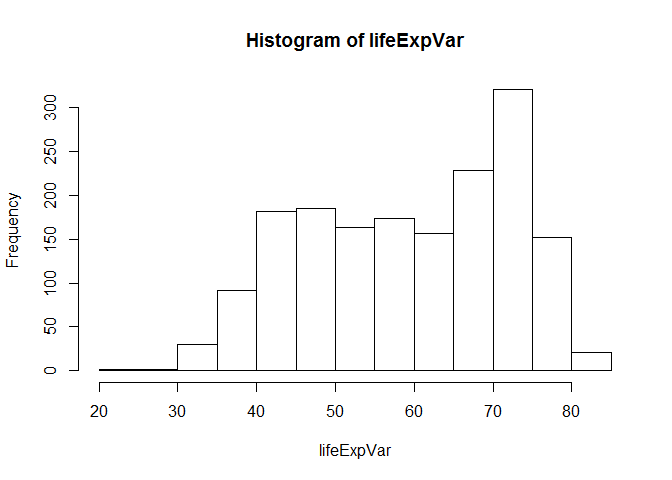
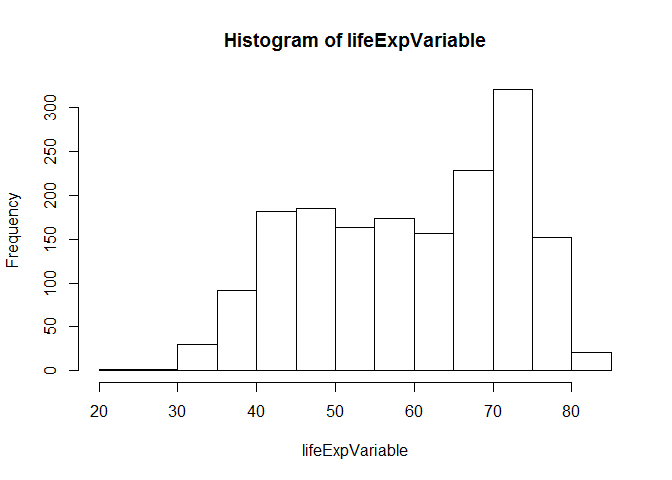
Third Attempt on Homework2

Changed region(s): [[0.3125, 0.0625, 0.7188, 0.125], [0.4375, 0.9062, 0.625, 0.9688]]

diff --git a/hw02/hw02_gapminder.md b/hw02/hw02_gapminder.md
@@ -43,6 +43,12 @@ is.list(gapminder)
 
     ## [1] TRUE
 
+``` r
+typeof(gapminder)
+```
+
+    ## [1] "list"
+
 2)What's its class?
 
 Answer : Class is dataframe and also a tibble.
@@ -74,7 +80,7 @@ gapminder
 
 OR
 
-An alternative way is to find the number of rows and columns is mentioned below :
+An alternative way is to find the number of rows and columns as mentioned below :
 
 ``` r
 str(gapminder)
@@ -138,7 +144,7 @@ ncol(gapminder)
     ## [1] 6
 
 ``` r
-head(gapminder) #gives the number of columns and data tyoes for each column
+head(gapminder) #gives the number of columns and data types for each column
 ```
 
     ## # A tibble: 6 x 6
@@ -240,18 +246,18 @@ Answer : Categorical variable : continent
 Quantitative variable : life expectancy(lifeExp)
 
 ``` r
-ContinentVar <- gapminder$continent
-lifeExpVar <- gapminder$lifeExp
+ContinentVariable <- gapminder$continent
+lifeExpVariable <- gapminder$lifeExp
 ```
 
 2)What are possible values (or range, whichever is appropriate) of each variable? What values are typical? What’s the spread? What’s the distribution? Etc., tailored to the variable at hand. Feel free to use summary stats, tables, figures. We’re NOT expecting high production value (yet).
 
 ``` r
-continentTable <- table(ContinentVar)
+continentTable <- table(ContinentVariable)
 continentTable
 ```
 
-    ## ContinentVar
+    ## ContinentVariable
     ##   Africa Americas     Asia   Europe  Oceania 
     ##      624      300      396      360       24
 
@@ -262,75 +268,253 @@ hist(continentTable) #Distribution of Continent (Similar to frequency distributi
 ![](hw02_gapminder_files/figure-markdown_github-ascii_identifiers/unnamed-chunk-11-1.png)
 
 ``` r
-range(lifeExpVar)
+range(lifeExpVariable) # Range of Life Expectancy
 ```
 
     ## [1] 23.599 82.603
 
 ``` r
-hist(lifeExpVar) #Distribution of ife Expectency
+hist(lifeExpVariable) #Distribution of ife Expectency
 ```
 
 ![](hw02_gapminder_files/figure-markdown_github-ascii_identifiers/unnamed-chunk-11-2.png)
 
 ``` r
-mean(lifeExpVar)
+mean(lifeExpVariable) # Mean/Average of ife Expectancy
 ```
 
     ## [1] 59.47444
 
 ``` r
-sd(lifeExpVar)
+sd(lifeExpVariable) # Standard Deviation of Life Expectancy
 ```
 
     ## [1] 12.91711
 
-Needs further exploring!
+Exploring continents and Life expectancy
 
 ``` r
-gap_with_colors <-
-data.frame(gapminder,
-cc = I(country_colors[match(gapminder$country,
-names(country_colors))]))
+    gapminder %>%
+      filter(continent== "Asia") %>%
+      group_by(year) %>%
+      summarise (minexp = min(lifeExp),
+             maxexp = max(lifeExp)) # displays the minimum and maximum Life expectancy
 ```
+
+    ## # A tibble: 12 x 3
+    ##     year minexp maxexp
+    ##    <int>  <dbl>  <dbl>
+    ##  1  1952 28.801 65.390
+    ##  2  1957 30.332 67.840
+    ##  3  1962 31.997 69.390
+    ##  4  1967 34.020 71.430
+    ##  5  1972 36.088 73.420
+    ##  6  1977 31.220 75.380
+    ##  7  1982 39.854 77.110
+    ##  8  1987 40.822 78.670
+    ##  9  1992 41.674 79.360
+    ## 10  1997 41.763 80.690
+    ## 11  2002 42.129 82.000
+    ## 12  2007 43.828 82.603
+
+``` r
+unique(gapminder$continent) #gives the distinct countries within continent Variable set
+```
+
+    ## [1] Asia     Europe   Africa   Americas Oceania 
+    ## Levels: Africa Americas Asia Europe Oceania
 
 Explore various plot types
 --------------------------
 
 See the ggplot2 tutorial, which also uses the gapminder data, for ideas.
 
-Make a few plots, probably of the same variable you chose to characterize numerically. Try to explore more than one plot type. Just as an example of what I mean:
+##### Make a few plots, probably of the same variable you chose to characterize numerically. Try to explore more than one plot type. Just as an example of what I mean:
 
-    A scatterplot of two quantitative variables.
+A scatterplot of two quantitative variables.
+
+Quantitative variable 1 : Life Expectancy
+
+Quantitative variable 2 : Population
 
 ``` r
 ggplot(gapminder, 
-      aes(x=year, y=pop)) +
-      geom_point(size = 4, color = "indianred4")
-```
-
-![](hw02_gapminder_files/figure-markdown_github-ascii_identifiers/unnamed-chunk-13-1.png)
-
-    A plot of one quantitative variable. Maybe a histogram or densityplot or frequency polygon.
-    A plot of one quantitative variable and one categorical. Maybe boxplots for several continents or countries.
-
-``` r
-library("ggplot2")
-plot(lifeExp~continent,data = gapminder, xlab= "Continent",ylab = "Life Expectency")
+      aes(x=lifeExp, y=pop)) +
+      geom_point(size = 2, color = "indianred4")
 ```
 
 ![](hw02_gapminder_files/figure-markdown_github-ascii_identifiers/unnamed-chunk-14-1.png)
+
+    A plot of one quantitative variable. Maybe a histogram or densityplot or frequency polygon.
+
+    Densityplot of  quantitative variable: LifeExpectancy
+
+``` r
+ggplot(gapminder, aes(x=lifeExp)) + geom_density()
+```
+
+![](hw02_gapminder_files/figure-markdown_github-ascii_identifiers/unnamed-chunk-15-1.png)
+
+A plot of one quantitative variable and one categorical
+
+Answer : Box plot of quantitative variable : LifeExpectancy vs categorical variable : Continent
+
+``` r
+ggplot(gapminder,
+      aes(x = continent, y = lifeExp)) +
+      geom_boxplot(colour = "azure4", fill = "cyan", alpha = 0.5)
+```
+
+![](hw02_gapminder_files/figure-markdown_github-ascii_identifiers/unnamed-chunk-16-1.png)
+
+     Maybe boxplots for several continents or countries.
+
+``` r
+ggplot(gapminder,
+      aes(x=continent, y=lifeExp)) +
+      geom_boxplot(colour = "blue2", fill = "bisque2", alpha = 0.5) +
+      ggtitle("Continents") +
+      labs(x = "Country", y = "Lifeexpectancy")
+```
+
+![](hw02_gapminder_files/figure-markdown_github-ascii_identifiers/unnamed-chunk-17-1.png)
 
 ``` r
 ggplot(gapminder, aes(x = lifeExp, y = gdpPercap)) +
   geom_point()
 ```
 
-![](hw02_gapminder_files/figure-markdown_github-ascii_identifiers/unnamed-chunk-14-2.png)
+![](hw02_gapminder_files/figure-markdown_github-ascii_identifiers/unnamed-chunk-18-1.png)
 
 ``` r
 ggplot(gapminder, aes(x =lifeExp, y = year))+
   geom_point()
 ```
 
-![](hw02_gapminder_files/figure-markdown_github-ascii_identifiers/unnamed-chunk-14-3.png)
+![](hw02_gapminder_files/figure-markdown_github-ascii_identifiers/unnamed-chunk-18-2.png)
+
+Use filter(), select() and %&gt;% Use filter() to create data subsets that you want to plot.
+
+Practice piping together filter() and select(). Possibly even piping into ggplot().
+
+Answer : All the above functionaities mentioned above are excuted in the chunk below.
+
+Scatter Plot describing the LifeExpectency by year for each country within the Asian Continent.
+
+``` r
+gapminder %>%
+  filter(continent=="Asia") %>% 
+  select(country, year, lifeExp) %>% 
+  ggplot(aes(x=year, y=lifeExp)) %>% 
+  + geom_point(aes(color=country))
+```
+
+![](hw02_gapminder_files/figure-markdown_github-ascii_identifiers/unnamed-chunk-19-1.png)
+
+### But I want to do more!
+
+For people who want to take things further.
+
+Evaluate this code and describe the result. Presumably the analyst’s intent was to get the data for Rwanda and Afghanistan. Did they succeed? Why or why not? If not, what is the correct way to do this?
+
+``` r
+filter(gapminder, country == c("Rwanda", "Afghanistan"))
+```
+
+    ## # A tibble: 12 x 6
+    ##        country continent  year lifeExp      pop gdpPercap
+    ##         <fctr>    <fctr> <int>   <dbl>    <int>     <dbl>
+    ##  1 Afghanistan      Asia  1957  30.332  9240934  820.8530
+    ##  2 Afghanistan      Asia  1967  34.020 11537966  836.1971
+    ##  3 Afghanistan      Asia  1977  38.438 14880372  786.1134
+    ##  4 Afghanistan      Asia  1987  40.822 13867957  852.3959
+    ##  5 Afghanistan      Asia  1997  41.763 22227415  635.3414
+    ##  6 Afghanistan      Asia  2007  43.828 31889923  974.5803
+    ##  7      Rwanda    Africa  1952  40.000  2534927  493.3239
+    ##  8      Rwanda    Africa  1962  43.000  3051242  597.4731
+    ##  9      Rwanda    Africa  1972  44.600  3992121  590.5807
+    ## 10      Rwanda    Africa  1982  46.218  5507565  881.5706
+    ## 11      Rwanda    Africa  1992  23.599  7290203  737.0686
+    ## 12      Rwanda    Africa  2002  43.413  7852401  785.6538
+
+##### Similar excercise was done in class cm006 and the explaination was provided in the same class.
+
+Explaination :The above chunk only displays countries(afghanistan and Rwanda)/rows for which the year value/columns are unique. Repetitions are omitted.Hence it displays 12 rows only instead of 24 rows.
+
+Solution : To display all the data for country Rwanda nd Afghanistan, use the below :
+
+``` r
+filter(gapminder, country == "Rwanda" | country == "Afghanistan") # As discussed in class cm006
+```
+
+    ## # A tibble: 24 x 6
+    ##        country continent  year lifeExp      pop gdpPercap
+    ##         <fctr>    <fctr> <int>   <dbl>    <int>     <dbl>
+    ##  1 Afghanistan      Asia  1952  28.801  8425333  779.4453
+    ##  2 Afghanistan      Asia  1957  30.332  9240934  820.8530
+    ##  3 Afghanistan      Asia  1962  31.997 10267083  853.1007
+    ##  4 Afghanistan      Asia  1967  34.020 11537966  836.1971
+    ##  5 Afghanistan      Asia  1972  36.088 13079460  739.9811
+    ##  6 Afghanistan      Asia  1977  38.438 14880372  786.1134
+    ##  7 Afghanistan      Asia  1982  39.854 12881816  978.0114
+    ##  8 Afghanistan      Asia  1987  40.822 13867957  852.3959
+    ##  9 Afghanistan      Asia  1992  41.674 16317921  649.3414
+    ## 10 Afghanistan      Asia  1997  41.763 22227415  635.3414
+    ## # ... with 14 more rows
+
+OR
+
+``` r
+gapminder %>%
+  filter(country %in% c("Rwanda", "Afghanistan"))  # As discussed in class cm006
+```
+
+    ## # A tibble: 24 x 6
+    ##        country continent  year lifeExp      pop gdpPercap
+    ##         <fctr>    <fctr> <int>   <dbl>    <int>     <dbl>
+    ##  1 Afghanistan      Asia  1952  28.801  8425333  779.4453
+    ##  2 Afghanistan      Asia  1957  30.332  9240934  820.8530
+    ##  3 Afghanistan      Asia  1962  31.997 10267083  853.1007
+    ##  4 Afghanistan      Asia  1967  34.020 11537966  836.1971
+    ##  5 Afghanistan      Asia  1972  36.088 13079460  739.9811
+    ##  6 Afghanistan      Asia  1977  38.438 14880372  786.1134
+    ##  7 Afghanistan      Asia  1982  39.854 12881816  978.0114
+    ##  8 Afghanistan      Asia  1987  40.822 13867957  852.3959
+    ##  9 Afghanistan      Asia  1992  41.674 16317921  649.3414
+    ## 10 Afghanistan      Asia  1997  41.763 22227415  635.3414
+    ## # ... with 14 more rows
+
+Present numerical tables in a more attractive form, such as using knitr::kable().
+
+Presenting the above example using knitr::kable()
+
+``` r
+knitr::kable(filter(gapminder, country == "Rwanda" | country == "Afghanistan"))
+```
+
+| country     | continent |  year|  lifeExp|       pop|  gdpPercap|
+|:------------|:----------|-----:|--------:|---------:|----------:|
+| Afghanistan | Asia      |  1952|   28.801|   8425333|   779.4453|
+| Afghanistan | Asia      |  1957|   30.332|   9240934|   820.8530|
+| Afghanistan | Asia      |  1962|   31.997|  10267083|   853.1007|
+| Afghanistan | Asia      |  1967|   34.020|  11537966|   836.1971|
+| Afghanistan | Asia      |  1972|   36.088|  13079460|   739.9811|
+| Afghanistan | Asia      |  1977|   38.438|  14880372|   786.1134|
+| Afghanistan | Asia      |  1982|   39.854|  12881816|   978.0114|
+| Afghanistan | Asia      |  1987|   40.822|  13867957|   852.3959|
+| Afghanistan | Asia      |  1992|   41.674|  16317921|   649.3414|
+| Afghanistan | Asia      |  1997|   41.763|  22227415|   635.3414|
+| Afghanistan | Asia      |  2002|   42.129|  25268405|   726.7341|
+| Afghanistan | Asia      |  2007|   43.828|  31889923|   974.5803|
+| Rwanda      | Africa    |  1952|   40.000|   2534927|   493.3239|
+| Rwanda      | Africa    |  1957|   41.500|   2822082|   540.2894|
+| Rwanda      | Africa    |  1962|   43.000|   3051242|   597.4731|
+| Rwanda      | Africa    |  1967|   44.100|   3451079|   510.9637|
+| Rwanda      | Africa    |  1972|   44.600|   3992121|   590.5807|
+| Rwanda      | Africa    |  1977|   45.000|   4657072|   670.0806|
+| Rwanda      | Africa    |  1982|   46.218|   5507565|   881.5706|
+| Rwanda      | Africa    |  1987|   44.020|   6349365|   847.9912|
+| Rwanda      | Africa    |  1992|   23.599|   7290203|   737.0686|
+| Rwanda      | Africa    |  1997|   36.087|   7212583|   589.9445|
+| Rwanda      | Africa    |  2002|   43.413|   7852401|   785.6538|
+| Rwanda      | Africa    |  2007|   46.242|   8860588|   863.0885|

diff --git a/hw02/README.md b/hw02/README.md
@@ -24,3 +24,5 @@ Creating a markdown file was quite easy!
 I did refer to [class notes](http://stat545.com/cm006_tibbles-dplyr-ggplot2.htmls)for ggplot and dplyr functions.
 
 This [link](https://cran.r-project.org/web/packages/gapminder/gapminder.pdf) helped in discovering colors for different countries as well as the syntax to be used in ggplot.
+
+The Help tab/?help was very useful in exploring different function within R.
